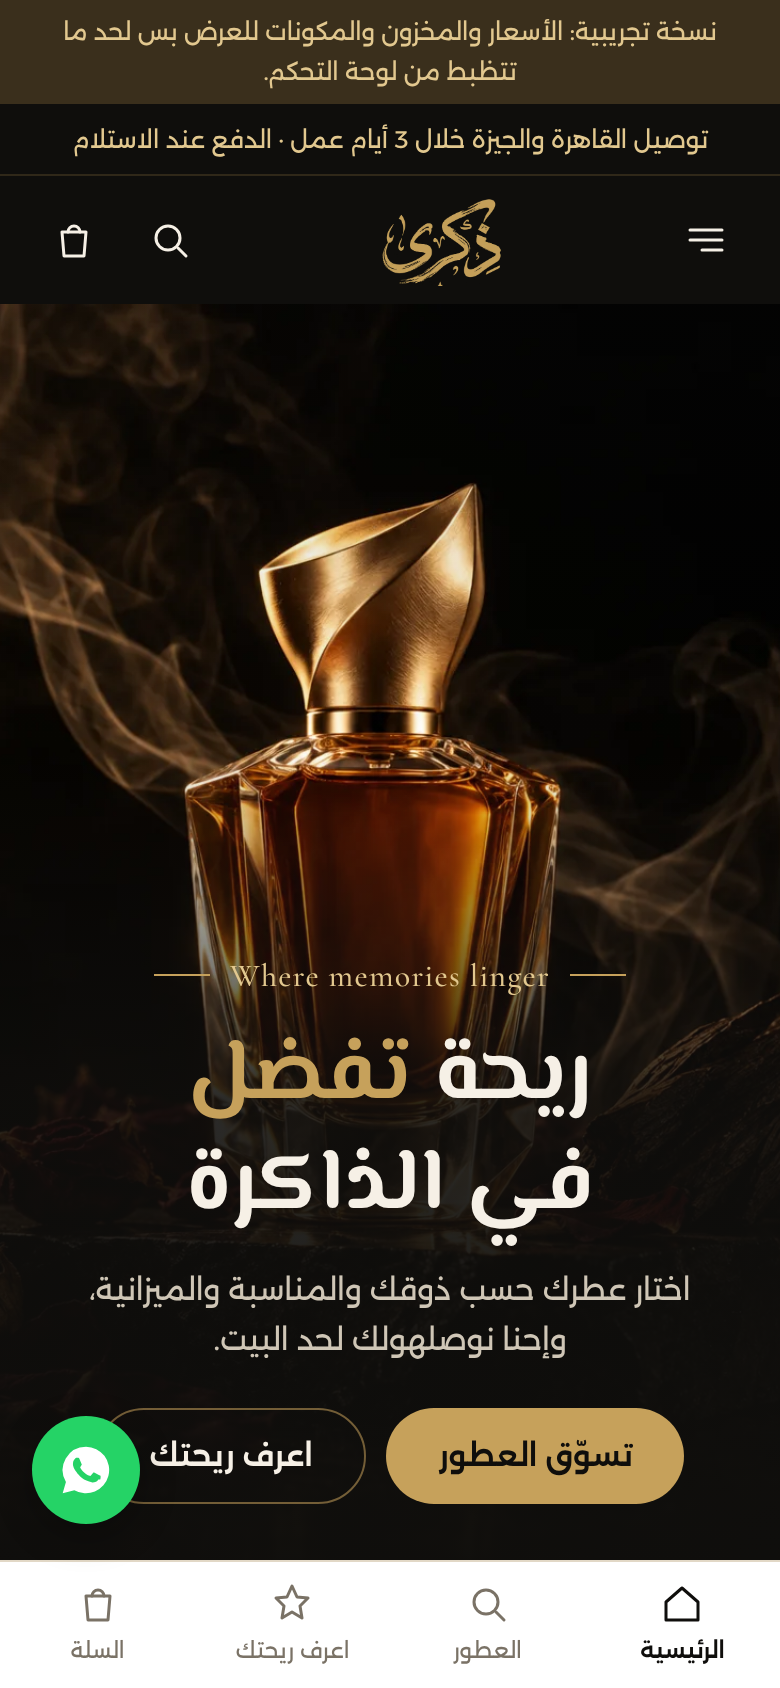
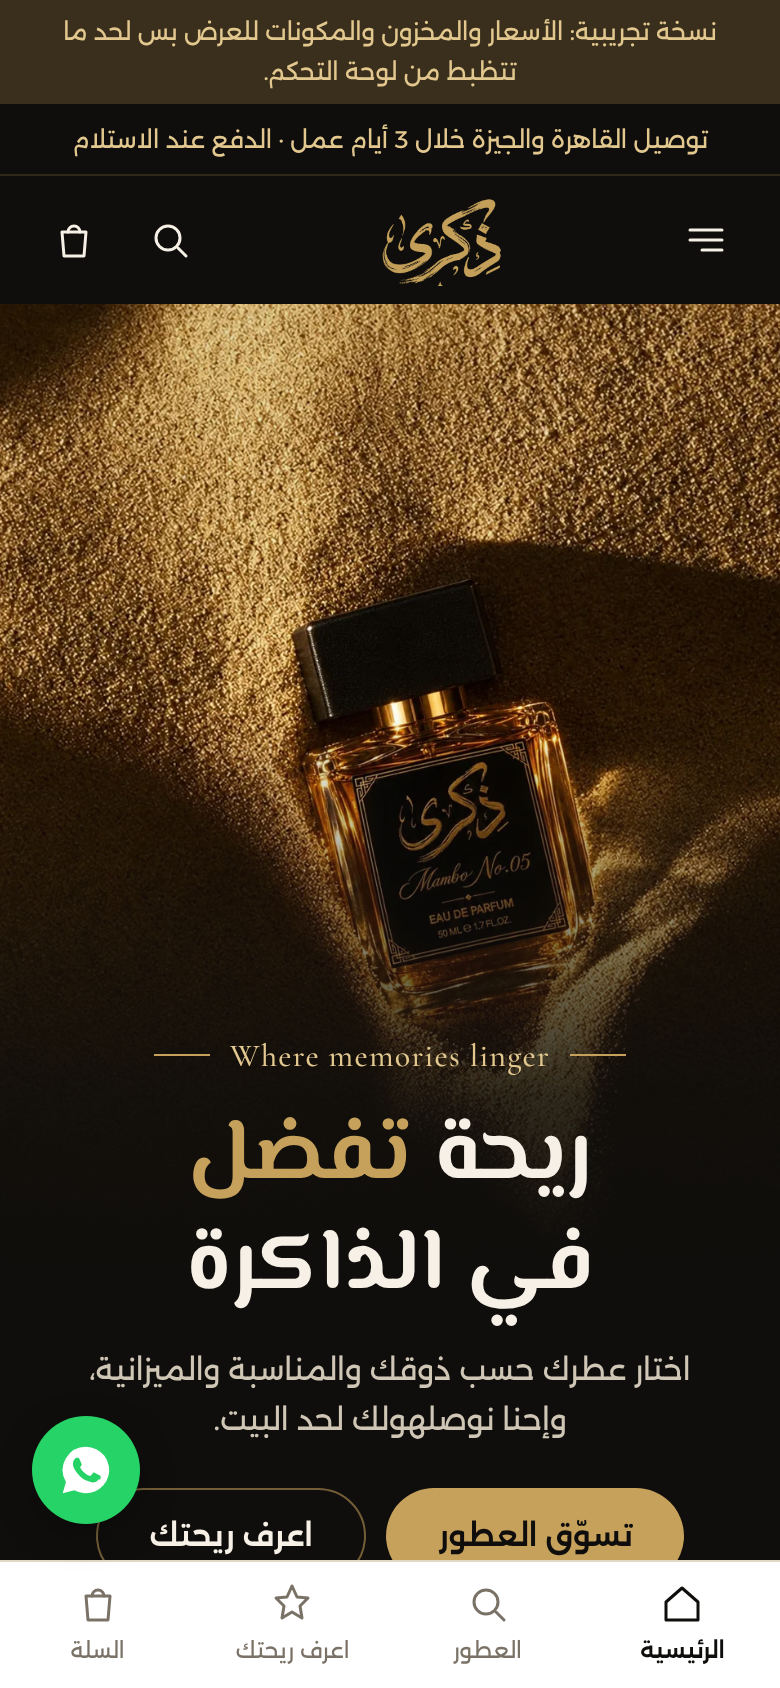
Use the real product photos across the store
- Organise the 14 uploaded lifestyle photos as WebP per product (2 each)
- Product galleries now show pack shot + lifestyle photos (4:5 frame)
- Homepage hero, gender cards and banners use real photos instead of AI images
- Remove the raw uploads from the repo root and the unused AI design images

Claude-Session: https://claude.ai/code/session_014uRWex7aubegHMAgB8FkA4

diff --git a/index.html b/index.html
@@ -17,7 +17,7 @@
 <div id="site-header"></div>
 <main id="main">
 <section class="hero">
-  <div class="hero-img"><img src="assets/img/design/hero.webp" alt="" fetchpriority="high" width="960" height="1200"></div>
+  <div class="hero-img"><img src="assets/img/products/mambo-no-05-3.webp" alt="" fetchpriority="high" width="1121" height="1403"></div>
   <div class="content">
     <div class="tagline">Where memories linger</div>
     <h1>ريحة <em>تفضل</em><br>في الذاكرة</h1>
@@ -30,9 +30,9 @@
 <section class="sec"><div class="wrap">
   <div class="sec-head"><div><div class="eyebrow">Shop by</div><h2>تسوّق حسب النوع</h2></div><a class="more" href="shop.html">كل العطور ←</a></div>
   <div class="genders">
-    <a class="g-card" href="shop.html?gender=men"><img src="assets/img/design/men.webp" alt="" loading="lazy"><div class="txt"><div class="eyebrow">For him</div><b>رجالي</b><span data-gcount="men">تسوّق ←</span></div></a>
-    <a class="g-card" href="shop.html?gender=women"><img src="assets/img/design/women.webp" alt="" loading="lazy"><div class="txt"><div class="eyebrow">For her</div><b>حريمي</b><span data-gcount="women">تسوّق ←</span></div></a>
-    <a class="g-card" href="shop.html?gender=unisex"><img src="assets/img/design/unisex.webp" alt="" loading="lazy"><div class="txt"><div class="eyebrow">For everyone</div><b>يونيسكس</b><span data-gcount="unisex">تسوّق ←</span></div></a>
+    <a class="g-card" href="shop.html?gender=men"><img src="assets/img/products/007-2.webp" alt="" loading="lazy"><div class="txt"><div class="eyebrow">For him</div><b>رجالي</b><span data-gcount="men">تسوّق ←</span></div></a>
+    <a class="g-card" href="shop.html?gender=women"><img src="assets/img/products/tre-lychee-3.webp" alt="" loading="lazy"><div class="txt"><div class="eyebrow">For her</div><b>حريمي</b><span data-gcount="women">تسوّق ←</span></div></a>
+    <a class="g-card" href="shop.html?gender=unisex"><img src="assets/img/products/oudsession-no-01-3.webp" alt="" loading="lazy"><div class="txt"><div class="eyebrow">For everyone</div><b>يونيسكس</b><span data-gcount="unisex">تسوّق ←</span></div></a>
   </div>
 </div></section>
 
@@ -60,11 +60,11 @@
     <p>كل زجاجة 50 مل معاها تستر 3 مل من نفس الريحة. جرّبه على جلدك وسيبه ياخد وقته، وخلّي الزجاجة الكبيرة مقفولة لحد ما تتأكد إنها ريحتك.</p>
     <div class="sizes"><div class="n"><b>50</b><span>مل زجاجتك</span></div><div class="plus">+</div><div class="n"><b>3</b><span>مل تستر مجاناً</span></div></div>
   </div>
-  <a class="quiz-banner" href="quiz.html"><img src="assets/img/design/unisex.webp" alt="" loading="lazy">
+  <a class="quiz-banner" href="quiz.html"><img src="assets/img/products/four-loko-3.webp" alt="" loading="lazy">
     <div class="txt"><div class="eyebrow" style="color:var(--gold-2)">Scent quiz</div><h3>مش عارف تختار؟</h3><p>جاوب على 5 أسئلة في دقيقة، ونرشحلك 3 عطور على ذوقك.</p><span class="btn btn-gold">ابدأ الاختبار</span></div></a>
 </div>
 <div class="wrap"><div class="gift-banner" style="margin-top:16px">
-  <img src="assets/img/design/women.webp" alt="" loading="lazy">
+  <img src="assets/img/products/tre-lychee-2.webp" alt="" loading="lazy">
   <div><div class="eyebrow">Gift sets</div><h3>باكدجات الهدايا</h3><p>هدية جاهزة في علبة ذِكرى، لأي مناسبة.</p><a class="btn btn-gold" href="shop.html?occasion=gift">شوف الهدايا</a></div>
 </div></div></section>
 

diff --git a/assets/css/main.css b/assets/css/main.css
@@ -56,10 +56,10 @@ h2{font-size:26px;font-weight:600}
 .drawer .panel .close{align-self:flex-start}
 
 /* Hero */
-.hero{position:relative;min-height:640px;display:flex;align-items:flex-end;color:var(--cream);background:var(--ink);overflow:hidden}
-.hero picture,.hero .hero-img{position:absolute;inset:0}
-.hero .hero-img img{width:100%;height:100%;object-fit:cover;object-position:center 20%}
-.hero::after{content:"";position:absolute;inset:0;background:linear-gradient(180deg,rgba(15,14,12,.15) 0%,rgba(15,14,12,0) 35%,rgba(15,14,12,.88) 62%,var(--ink) 100%)}
+.hero{position:relative;min-height:680px;display:flex;align-items:flex-end;color:var(--cream);background:var(--ink);overflow:hidden}
+.hero picture,.hero .hero-img{position:absolute;inset:0 0 28% 0}
+.hero .hero-img img{width:100%;height:100%;object-fit:cover;object-position:center 30%}
+.hero::after{content:"";position:absolute;inset:0;background:linear-gradient(180deg,rgba(15,14,12,.1) 0%,rgba(15,14,12,0) 30%,rgba(15,14,12,.85) 58%,var(--ink) 72%)}
 .hero .content{position:relative;z-index:1;width:100%;text-align:center;padding:0 var(--pad) 40px}
 .hero .tagline{display:flex;align-items:center;justify-content:center;gap:10px;font-family:var(--latin);color:var(--gold-2);font-size:16px;letter-spacing:.04em}
 .hero .tagline::before,.hero .tagline::after{content:"";width:28px;height:1px;background:var(--gold)}
@@ -213,7 +213,7 @@ body:has(.sticky-buy) .wa-fab{bottom:142px}
 
 /* Product page */
 .pdp{display:grid;gap:24px;padding-top:4px}
-.gallery .main{aspect-ratio:1;border-radius:var(--r-lg);overflow:hidden;background:#f7f2ea;border:1px solid var(--line)}
+.gallery .main{aspect-ratio:4/5;border-radius:var(--r-lg);overflow:hidden;background:#f7f2ea;border:1px solid var(--line)}
 .gallery .main img{width:100%;height:100%;object-fit:cover}
 .gallery .thumbs{display:flex;gap:8px;margin-top:10px}
 .gallery .thumbs button{width:64px;height:64px;border-radius:12px;overflow:hidden;border:2px solid transparent}
@@ -285,7 +285,7 @@ details.faq p{margin-top:8px;color:var(--muted)}
   h2{font-size:34px}
   .sec{padding:72px 0 4px}
   .hero{min-height:720px;align-items:stretch}
-  .hero .hero-img{left:0;right:auto;width:50%}
+  .hero .hero-img{inset:0 auto 0 0;width:50%}
   .hero::after{background:linear-gradient(270deg,var(--ink) 50%,rgba(15,14,12,.9) 54%,rgba(15,14,12,0) 70%)}
   .hero .content{display:flex;flex-direction:column;justify-content:center;align-items:flex-start;text-align:right;max-width:var(--wrap);margin:0 auto;padding:0 var(--pad)}
   .hero .content>*{max-width:520px}
